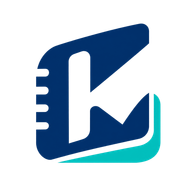
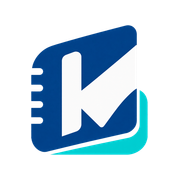
Hizlandirma: sunucu bolgesi Dublin (veritabani yaninda), istek basina tek oturum/kapsam sorgusu, paralel sorgular; uygulama ikonu beyaz zeminli ve opak, tablette yatay kullanim

diff --git a/src/app/anasayfa/layout.tsx b/src/app/anasayfa/layout.tsx
@@ -1,7 +1,8 @@
 import { redirect } from 'next/navigation';
 import { cookies } from 'next/headers';
 import { createClient } from '@/lib/supabase/server';
-import { getStudentScope, applyStudentScope } from '@/lib/effective-coach';
+import { getRequestUser, getRequestScope } from '@/lib/supabase/request-cache';
+import { applyStudentScope } from '@/lib/effective-coach';
 import { Sidebar } from '@/components/layout/Sidebar';
 import { Topbar } from '@/components/layout/Topbar';
 import { MobileBottomNav } from '@/components/layout/MobileBottomNav';
@@ -10,36 +11,33 @@ import type { Profile } from '@/types/database';
 export default async function DashboardLayout({ children }: { children: React.ReactNode }) {
   const supabase = await createClient();
 
-  const { data: { user } } = await supabase.auth.getUser();
+  const user = await getRequestUser();
   if (!user) redirect('/giris');
 
-  const { data: profile } = await supabase
-    .from('profiles')
-    .select('*')
-    .eq('id', user.id)
-    .single();
-
   const includeInterns = (await cookies()).get('show_interns')?.value === '1';
-  const scope = await getStudentScope(supabase, user.id, includeInterns);
-  const { data: studentsForCount } = await applyStudentScope(
-    // eslint-disable-next-line @typescript-eslint/no-explicit-any
-    (supabase as any)
-      .from('students')
-      .select('id')
-      .neq('status', 'pasif'),
-    scope
-  );
+  // Profil ve öğrenci sayısı aynı anda (birbirini beklemeden) okunur; sayı için yalnızca adet istenir
+  const [{ data: profile }, studentCount] = await Promise.all([
+    supabase.from('profiles').select('*').eq('id', user.id).single(),
+    getRequestScope(user.id, includeInterns).then(async (scope) => {
+      const { count } = await applyStudentScope(
+        // eslint-disable-next-line @typescript-eslint/no-explicit-any
+        (supabase as any).from('students').select('id', { count: 'exact', head: true }).neq('status', 'pasif'),
+        scope
+      );
+      return count ?? 0;
+    }),
+  ]);
 
   return (
     <div className="flex h-screen flex-col overflow-hidden bg-gray-50">
       <Topbar profile={profile as Profile | null} />
       <div className="flex flex-1 overflow-hidden">
-        <Sidebar studentCount={studentsForCount?.length ?? 0} />
+        <Sidebar studentCount={studentCount} />
         <main className="flex-1 overflow-y-auto p-4 pb-20 md:p-6 md:pb-6">
           {children}
         </main>
       </div>
-      <MobileBottomNav studentCount={studentsForCount?.length ?? 0} />
+      <MobileBottomNav studentCount={studentCount} />
     </div>
   );
 }

diff --git a/src/app/ogrenciler/page.tsx b/src/app/ogrenciler/page.tsx
@@ -1,10 +1,11 @@
 import { redirect } from 'next/navigation';
 import { createClient } from '@/lib/supabase/server';
+import { getRequestUser, getRequestScope } from '@/lib/supabase/request-cache';
 import { OgrencilerClient } from './OgrencilerClient';
 import type { Student } from '@/types/database';
 import { cookies } from 'next/headers';
 import { BasvuruListesi, type Basvuru } from '@/components/BasvuruListesi';
-import { getStudentScope, applyStudentScope, isInternStudent } from '@/lib/effective-coach';
+import { applyStudentScope, isInternStudent } from '@/lib/effective-coach';
 
 type OgrenciListStudent = Student & {
   birth_date?: string | null;
@@ -22,7 +23,7 @@ export default async function OgrencilerPage({
   const archiveMode = params.arsiv === '1';
 
   const supabase = await createClient();
-  const { data: { user } } = await supabase.auth.getUser();
+  const user = await getRequestUser();
   if (!user) redirect('/giris');
 
   // eslint-disable-next-line @typescript-eslint/no-explicit-any
@@ -33,7 +34,7 @@ export default async function OgrencilerPage({
     .maybeSingle();
 
   const includeInterns = (await cookies()).get('show_interns')?.value === '1';
-  const scope = await getStudentScope(supabase, user.id, includeInterns);
+  const scope = await getRequestScope(user.id, includeInterns);
 
   let studentsQuery = applyStudentScope(
     // eslint-disable-next-line @typescript-eslint/no-explicit-any

diff --git a/src/app/anasayfa/page.tsx b/src/app/anasayfa/page.tsx
@@ -2,7 +2,8 @@
 import { redirect } from 'next/navigation';
 import { cookies } from 'next/headers';
 import { createClient } from '@/lib/supabase/server';
-import { getStudentScope, applyStudentScope } from '@/lib/effective-coach';
+import { getRequestUser, getRequestScope } from '@/lib/supabase/request-cache';
+import { applyStudentScope } from '@/lib/effective-coach';
 import { fetchChunkedByIds } from '@/lib/chunked-in';
 import { activeDays, shiftDay, trDate } from '@/lib/student-motivation';
 import { AnasayfaClient, type DashStudent, type DashMeeting, type DashExam } from './AnasayfaClient';
@@ -23,7 +24,7 @@ const daysBetween = (from: string, to: string) =>
 
 export default async function AnasayfaPage() {
   const supabase = await createClient();
-  const { data: { user } } = await supabase.auth.getUser();
+  const user = await getRequestUser();
   if (!user) redirect('/giris');
 
   const today = trDate();
@@ -33,7 +34,7 @@ export default async function AnasayfaPage() {
   const { data: profile } = await (supabase as any).from('profiles').select('full_name').eq('id', user.id).single();
 
   const includeInterns = (await cookies()).get('show_interns')?.value === '1';
-  const scope = await getStudentScope(supabase, user.id, includeInterns);
+  const scope = await getRequestScope(user.id, includeInterns);
   const { data: rawStudents } = await applyStudentScope(
     (supabase as any)
       .from('students')

diff --git a/src/lib/effective-coach.ts b/src/lib/effective-coach.ts
@@ -43,22 +43,24 @@ export type StudentScope = {
 
 // eslint-disable-next-line @typescript-eslint/no-explicit-any
 export async function getStudentScope(supabase: any, userId: string, includeInterns = false): Promise<StudentScope> {
-  const { data: own } = await supabase
-    .from('teacher_access_profiles')
-    .select('status, mentor_id')
-    .eq('teacher_id', userId)
-    .maybeSingle();
+  // İki sorgu birbirini beklemesin (her biri veritabanına ayrı bir gidiş-dönüş)
+  const [{ data: own }, { data: interns }] = await Promise.all([
+    supabase
+      .from('teacher_access_profiles')
+      .select('status, mentor_id')
+      .eq('teacher_id', userId)
+      .maybeSingle(),
+    supabase
+      .from('teacher_access_profiles')
+      .select('teacher_id')
+      .eq('mentor_id', userId)
+      .neq('status', 'coach'),
+  ]);
 
   // stajyer hesabı: eskisi gibi çalışır
   if (own && own.status !== 'coach' && own.mentor_id) {
     return { userId, coachIds: [own.mentor_id, userId], isMentor: false, ownOnly: false };
   }
-
-  const { data: interns } = await supabase
-    .from('teacher_access_profiles')
-    .select('teacher_id')
-    .eq('mentor_id', userId)
-    .neq('status', 'coach');
 
   const internIds = (interns ?? []).map((i: { teacher_id: string }) => i.teacher_id);
   return { userId, coachIds: [userId, ...internIds], isMentor: true, ownOnly: !includeInterns };

diff --git a/src/app/anketler/[id]/sonuclar/page.tsx b/src/app/anketler/[id]/sonuclar/page.tsx
@@ -2,13 +2,14 @@
 import { redirect, notFound } from 'next/navigation';
 import { cookies } from 'next/headers';
 import { createClient } from '@/lib/supabase/server';
-import { getStudentScope, applyStudentScope } from '@/lib/effective-coach';
+import { getRequestUser, getRequestScope } from '@/lib/supabase/request-cache';
+import { applyStudentScope } from '@/lib/effective-coach';
 import { SonuclarClient } from './SonuclarClient';
 
 export default async function SonuclarPage({ params }: { params: Promise<{ id: string }> }) {
   const { id } = await params;
   const supabase = await createClient();
-  const { data: { user } } = await supabase.auth.getUser();
+  const user = await getRequestUser();
   if (!user) redirect('/giris');
 
   const { data: survey } = await (supabase.from('surveys') as any)
@@ -36,7 +37,7 @@ export default async function SonuclarPage({ params }: { params: Promise<{ id: s
     .eq('question_type', 'text');
 
   const includeInterns = (await cookies()).get('show_interns')?.value === '1';
-  const scope = await getStudentScope(supabase, user.id, includeInterns);
+  const scope = await getRequestScope(user.id, includeInterns);
   const { data: students } = await applyStudentScope(
     (supabase as any)
       .from('students')

diff --git a/src/app/ajanda/page.tsx b/src/app/ajanda/page.tsx
@@ -2,19 +2,20 @@
 import { redirect } from 'next/navigation';
 import { cookies } from 'next/headers';
 import { createClient } from '@/lib/supabase/server';
+import { getRequestUser, getRequestScope } from '@/lib/supabase/request-cache';
 import { createAdminClient } from '@/lib/supabase/admin';
-import { getStudentScope, applyStudentScope } from '@/lib/effective-coach';
+import { applyStudentScope } from '@/lib/effective-coach';
 import { AjandaClient } from './AjandaClient';
 
 // Ajanda: haftalık takvim. Koç/öğretmen istediği gün ve saate görüşme planlar;
 // öğrenci ya da öğretmen/koç seçilirse ona panel içi bildirim gider (supabase/appointments.sql).
 export default async function AjandaPage() {
   const supabase = await createClient();
-  const { data: { user } } = await supabase.auth.getUser();
+  const user = await getRequestUser();
   if (!user) redirect('/giris');
 
   const includeInterns = (await cookies()).get('show_interns')?.value === '1';
-  const scope = await getStudentScope(supabase, user.id, includeInterns);
+  const scope = await getRequestScope(user.id, includeInterns);
   const { data: students } = await applyStudentScope(
     (supabase as any)
       .from('students')

diff --git a/src/app/denemeler/page.tsx b/src/app/denemeler/page.tsx
@@ -2,7 +2,8 @@
 import { redirect } from 'next/navigation';
 import { cookies } from 'next/headers';
 import { createClient } from '@/lib/supabase/server';
-import { getStudentScope, applyStudentScope } from '@/lib/effective-coach';
+import { getRequestUser, getRequestScope } from '@/lib/supabase/request-cache';
+import { applyStudentScope } from '@/lib/effective-coach';
 import { fetchChunkedByIds } from '@/lib/chunked-in';
 import { DenemelerClient } from './DenemelerClient';
 
@@ -13,11 +14,11 @@ export default async function DenemelerPage({
 }) {
   const { ogrenci: ogrenciFilter } = await searchParams;
   const supabase = await createClient();
-  const { data: { user } } = await supabase.auth.getUser();
+  const user = await getRequestUser();
   if (!user) redirect('/giris');
 
   const includeInterns = (await cookies()).get('show_interns')?.value === '1';
-  const scope = await getStudentScope(supabase, user.id, includeInterns);
+  const scope = await getRequestScope(user.id, includeInterns);
   const { data: rawStudents } = await applyStudentScope(
     (supabase as any)
       .from('students')

diff --git a/src/app/gorusmeler/[id]/page.tsx b/src/app/gorusmeler/[id]/page.tsx
@@ -2,7 +2,8 @@
 import { redirect, notFound } from 'next/navigation';
 import { cookies } from 'next/headers';
 import { createClient } from '@/lib/supabase/server';
-import { getStudentScope, applyStudentScope } from '@/lib/effective-coach';
+import { getRequestUser, getRequestScope } from '@/lib/supabase/request-cache';
+import { applyStudentScope } from '@/lib/effective-coach';
 import { GorusmeOgrenciClient } from './GorusmeOgrenciClient';
 
 export default async function GorusmeOgrenciPage({
@@ -12,11 +13,11 @@ export default async function GorusmeOgrenciPage({
 }) {
   const { id } = await params;
   const supabase = await createClient();
-  const { data: { user } } = await supabase.auth.getUser();
+  const user = await getRequestUser();
   if (!user) redirect('/giris');
 
   const includeInterns = (await cookies()).get('show_interns')?.value === '1';
-  const scope = await getStudentScope(supabase, user.id, includeInterns);
+  const scope = await getRequestScope(user.id, includeInterns);
   const { data: students } = await applyStudentScope(
     (supabase as any)
       .from('students')

diff --git a/src/app/veli-gorusmeleri/page.tsx b/src/app/veli-gorusmeleri/page.tsx
@@ -2,17 +2,18 @@
 import { redirect } from 'next/navigation';
 import { cookies } from 'next/headers';
 import { createClient } from '@/lib/supabase/server';
-import { getStudentScope, applyStudentScope, isInternStudent } from '@/lib/effective-coach';
+import { getRequestUser, getRequestScope } from '@/lib/supabase/request-cache';
+import { applyStudentScope, isInternStudent } from '@/lib/effective-coach';
 import { fetchChunkedByIds } from '@/lib/chunked-in';
 import { VeliGorusmeleriClient } from './VeliGorusmeleriClient';
 
 export default async function VeliGorusmeleriPage() {
   const supabase = await createClient();
-  const { data: { user } } = await supabase.auth.getUser();
+  const user = await getRequestUser();
   if (!user) redirect('/giris');
 
   const includeInterns = (await cookies()).get('show_interns')?.value === '1';
-  const scope = await getStudentScope(supabase, user.id, includeInterns);
+  const scope = await getRequestScope(user.id, includeInterns);
   const { data: students } = await applyStudentScope(
     (supabase as any)
       .from('students')

diff --git a/src/app/gorusmeler/page.tsx b/src/app/gorusmeler/page.tsx
@@ -2,17 +2,18 @@
 import { redirect } from 'next/navigation';
 import { cookies } from 'next/headers';
 import { createClient } from '@/lib/supabase/server';
-import { getStudentScope, applyStudentScope, isInternStudent } from '@/lib/effective-coach';
+import { getRequestUser, getRequestScope } from '@/lib/supabase/request-cache';
+import { applyStudentScope, isInternStudent } from '@/lib/effective-coach';
 import { fetchChunkedByIds } from '@/lib/chunked-in';
 import { GorusmelerOgrenciListClient } from './GorusmelerOgrenciListClient';
 
 export default async function GorusmelerPage() {
   const supabase = await createClient();
-  const { data: { user } } = await supabase.auth.getUser();
+  const user = await getRequestUser();
   if (!user) redirect('/giris');
 
   const includeInterns = (await cookies()).get('show_interns')?.value === '1';
-  const scope = await getStudentScope(supabase, user.id, includeInterns);
+  const scope = await getRequestScope(user.id, includeInterns);
 
   const { data: students } = await applyStudentScope(
     (supabase as any)

diff --git a/src/app/veli/page.tsx b/src/app/veli/page.tsx
@@ -2,6 +2,7 @@
 import Link from 'next/link';
 import { redirect } from 'next/navigation';
 import { createClient } from '@/lib/supabase/server';
+import { getRequestUser } from '@/lib/supabase/request-cache';
 import { createAdminClient } from '@/lib/supabase/admin';
 import { loadStudentReport } from '@/lib/student-report';
 import { StudentReportView } from '@/components/report/StudentReportView';
@@ -11,7 +12,7 @@ export const dynamic = 'force-dynamic';
 export default async function VeliPage({ searchParams }: { searchParams: Promise<{ ogrenci?: string }> }) {
   const { ogrenci } = await searchParams;
   const supabase = await createClient();
-  const { data: { user } } = await supabase.auth.getUser();
+  const user = await getRequestUser();
   if (!user) redirect('/giris/veli');
 
   const { data: profile } = await (supabase as any).from('profiles').select('must_change_password').eq('id', user.id).single();

diff --git a/src/lib/supabase/request-cache.ts b/src/lib/supabase/request-cache.ts
@@ -1,0 +1,19 @@
+import { cache } from 'react';
+import { createClient } from './server';
+import { getStudentScope } from '@/lib/effective-coach';
+
+// Aynı sayfa isteği içinde (panel iskeleti + sayfanın kendisi) tekrar tekrar sorulan bilgiler bir kez sorulur.
+// React cache yalnızca o isteğin ömrü boyunca geçerlidir; kullanıcılar arasında paylaşılmaz.
+
+/** Oturumdaki kullanıcı (Supabase Auth'a istek başına tek çağrı) */
+export const getRequestUser = cache(async () => {
+  const supabase = await createClient();
+  const { data: { user } } = await supabase.auth.getUser();
+  return user;
+});
+
+/** Koçun görebildiği öğrenci kapsamı (istek başına tek hesap) */
+export const getRequestScope = cache(async (userId: string, includeInterns: boolean) => {
+  const supabase = await createClient();
+  return getStudentScope(supabase, userId, includeInterns);
+});
